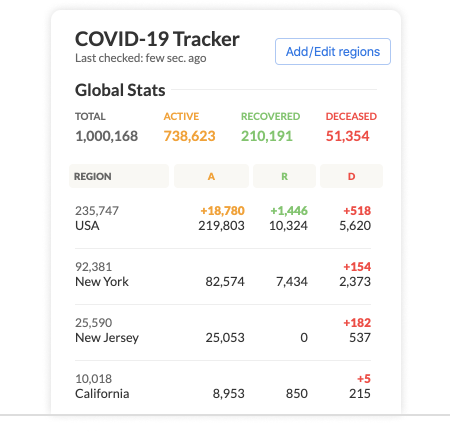
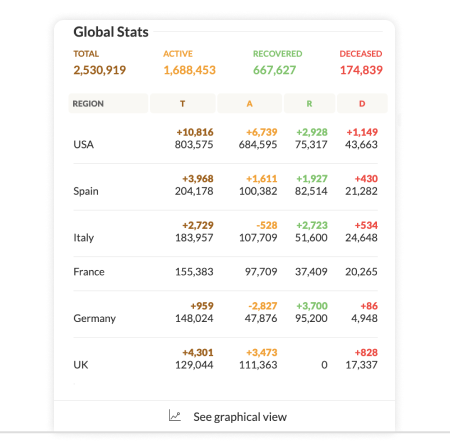
fix(HomePage): Add graphical info, add download sticky headrs

diff --git a/src/page-index/tmpl.html b/src/page-index/tmpl.html
@@ -6,26 +6,28 @@
 </head>
 <body>
 <div >
-  <section class="">
-    <header style="height: 150px;">
-      <div class="row middle-xs" style="height: 100%">
-        <div class="col-xs-12 col-lg-3 row center-xs start-lg left-lg">
-          <div class="logo row middle-xs">
-            <div class="logo-bg"></div>
-            <div class="heading-text">
-              <span>COVID-19</span>
-              <br>Tracker
+  <section class="home">
+    <div class="header">
+      <header>
+        <div class="row middle-xs" style="height: 100%">
+          <div class="col-xs-12 col-lg-3 row center-xs start-lg left-lg">
+            <div class="logo row middle-xs">
+              <div class="logo-bg"></div>
+              <div class="heading-text">
+                <span>COVID-19</span>
+                <br>Tracker
+              </div>
             </div>
           </div>
-        </div>
-        <div class="col-sm-12 col-md-9">
-          <div class="nav-buttons hide-xs show-lg">
-            <button onclick="chromeOpen()">Add To Chrome</button>
-            <button onclick="firefoxOpen()">Add To Firefox</button>
+          <div class="col-sm-12 col-md-9">
+            <div class="nav-buttons hide-xs show-lg">
+              <button onclick="chromeOpen()" class="bold">Add To Chrome</button>
+              <button onclick="firefoxOpen()" class="bold">Add To Firefox</button>
+            </div>
           </div>
-        </div>
-      </div stye>
-    </header>
+        </div stye>
+      </header>
+    </div>
     <div id="hero-image">
       <div class="row middle-xs full-height">
         <div class="col-lg-8 col-xs-12 row center-lg end-xs">
@@ -78,14 +80,33 @@
       </div>
     </div>
   </section>
-  <section class="region-section section">
+  <section class="graphical-stat-screen section">
     <div class="row middle-xs">
-      <div class="col-xs-12 col-lg-6 center-xs start-lg">
+      <div class="col-xs-12 col-lg-5 col-lg-offset-1 center-xs start-lg">
         <div class="section-heading">
-          Add any number of regions
+          Compare stats graphically
         </div>
         <div class="section-sub-heading">
-          See stats for all countries or state-wise data for India & US
+         Check and compare historical stats of various regions in single chart view.
+        </div>
+      </div>
+      <div class="col-xs-12 col-lg-6">
+        <picture>
+          <source media="(min-width: 75em)" srcset="images/covid-graphical-screen@3x.png">
+          <source media="(min-width: 64em)" srcset="images/covid-graphical-screen@2x.png">
+          <img src="images/covid-graphical-screen.png" alt="Stat Screen" style="width:auto;">
+        </picture>
+      </div>
+    </div>
+  </section>
+  <section class="region-section section">
+    <div class="row middle-xs">
+      <div class="col-xs-12 col-lg-6 show-xs hide-lg center-xs">
+        <div class="section-heading">
+          Add multiple regions
+        </div>
+        <div class="section-sub-heading">
+          See stats for various countries and states in a single view.
         </div>
       </div>
       <div class="col-xs-12 col-lg-6 center-xs start-lg">
@@ -95,16 +116,24 @@
           <img src="images/covid-region-screen.png" alt="Region Screen" style="width:auto;">
         </picture>
       </div>
+      <div class="col-xs-12 col-lg-6 center-xs start-lg show-lg hide-xs">
+        <div class="section-heading">
+          Add multiple regions
+        </div>
+        <div class="section-sub-heading">
+          See stats for various countries and states in a single view.
+        </div>
+      </div>
     </div>
   </section>
   <section class="notification-screen section">
     <div class="row middle-xs">
-      <div class="col-xs-12 col-lg-6 show-xs hide-lg center-xs">
+      <div class="col-xs-12 col-lg-6 center-xs start-lg">
         <div class="section-heading">
-          Get notification of increase in global cases
+          Get badge notifications
         </div>
         <div class="section-sub-heading">
-          See a notification as soon as there is a change in global cases
+          Get increase in global count cases notifications in menu bar.
         </div>
       </div>
       <div class="col-xs-12 col-lg-6">
@@ -114,14 +143,14 @@
           <img src="images/covid-notification.png" alt="Stat Screen" style="width:auto;">
         </picture>
       </div>
-      <div class="col-xs-12 col-lg-5 col-lg-offset-1 show-lg hide-xs">
-        <div class="section-heading">
-          Get notification of increase in global cases
-        </div>
-        <div class="section-sub-heading">
-          See a notification as soon as there is a change in global cases
-        </div>
-      </div>
+<!--      <div class="col-xs-12 col-lg-5 col-lg-offset-1 show-lg hide-xs">-->
+<!--        <div class="section-heading">-->
+<!--          Get notification of increase in global cases-->
+<!--        </div>-->
+<!--        <div class="section-sub-heading">-->
+<!--          See a notification as soon as there is a change in global cases-->
+<!--        </div>-->
+<!--      </div>-->
     </div>
   </section>
   <section class="safety-banner section">
@@ -152,6 +181,18 @@
       </div>
     </div>
   </footer>
+  <section class="hide-xs hide-md hide-lg fixed-download-footer" id="download-footer">
+    <div class="download-cta">
+      <button class="download row middle-xs" onclick="chromeOpen()">
+        <img src="images/chrome-icon.png" alt="chrome icon" width="32">
+        <span>Add To Chrome</span>
+      </button>
+      <button class="download row middle-xs" style="margin-left: 15px;" onclick="firefoxOpen()">
+        <img src="images/firefox-icon.png" alt="firefox icon" width="32">
+        <span>Add To Firefox</span>
+      </button>
+    </div>
+  </section>
 </div>
 </body>
 </html>

diff --git a/src/page-index/small-page.css b/src/page-index/small-page.css
@@ -61,6 +61,40 @@
     width: 60px;
     margin-right: 10px;
   }
+
+  .fixed-download-footer {
+    position: fixed;
+    bottom: 0;
+    left: 0;
+    right: 0;
+    background: #5086EE;
+    z-index: 2;
+    box-shadow: 0 0 10px 5px rgba(36, 109, 203, 0.30);
+  }
+
+  .fixed-download-footer .download-cta {
+    display: flex;
+    align-items: center;
+    justify-content: center;
+    height: 100%;
+    padding: 10px 0;
+  }
+
+  .fixed-download-footer .download {
+    margin: 0;
+    box-shadow: 0px 4px 10px rgba(0, 0, 0, 0.25);
+    padding: 0.625rem;
+    border-radius: 100px;
+    color: #1974E8;
+    font-size: 1rem;
+    border: none;
+    outline: none;
+  }
+
+  .fixed-download-footer .download img {
+    width: 2rem;
+    margin-right: 5px;
+  }
 }
 
 @media only screen and (min-width: 64em) {
@@ -106,11 +140,6 @@
     display: block;
   }
 
-  .logo {
-    font-size: 1.5rem;
-    font-weight: 700;
-  }
-
   .container {
     padding: 60px;
   }
@@ -123,9 +152,41 @@
     width: 90%;
     margin: 20px 0;
   }
+
+  .logo {
+    font-size: 1.5rem;
+    font-weight: 700;
+  }
+
+  div.header {
+    padding: 20px 0;
+    /*transition: all 0.3s ease-in;*/
+  }
+
   header .logo-bg {
     height: 80px;
     width: 80px;
     margin-right: 10px;
+  }
+
+  div.header.small {
+    padding: 10px 0;
+    position: fixed;
+    background: white;
+    top: 0;
+    left: 0;
+    right: 0;
+    box-shadow: 0 0 10px 10px rgba(0, 0, 0, 0.4);
+    animation: fadeIn ease 0.4s;
+  }
+
+  div.header.small .logo-bg {
+    height: 30px;
+    width: 30px;
+  }
+
+  div.header.small .logo {
+    font-size: 1rem;
+    font-weight: 600;
   }
 }

diff --git a/src/page-index/main.js b/src/page-index/main.js
@@ -1,11 +1,22 @@
 require('./page.css')
 require('./small-page.css')
-document.addEventListener('DOMContentLoaded', () => {
-  console.log('DOMContentLoaded', 'page-index')
-})
 window.chromeOpen = () => {
   window.location.href = 'https://chrome.google.com/webstore/detail/covid-19-tracker/ehpkefnpbbmohfkanokkjklihkjbamjm'
 }
 window.firefoxOpen = () => {
   window.location.href = 'https://addons.mozilla.org/en-US/firefox/addon/covid-19-tracker'
 }
+let isFixed = false
+window.addEventListener('scroll', () => {
+  if (!isFixed && document.documentElement.scrollTop > document.documentElement.clientHeight/2) {
+    isFixed = true;
+    document.querySelector('.header').classList.add('small')
+    document.querySelector('#download-footer').classList.add('show-xs')
+    document.querySelector('#download-footer').classList.remove('hide-xs')
+  } else if (isFixed && document.documentElement.scrollTop <= document.documentElement.clientHeight/2) {
+    isFixed = false;
+    document.querySelector('.header').classList.remove('small')
+    document.querySelector('#download-footer').classList.remove('show-xs')
+    document.querySelector('#download-footer').classList.add('hide-xs')
+  }
+})

diff --git a/src/page-index/page.css b/src/page-index/page.css
@@ -40,6 +40,8 @@ button:hover {
   padding: 12px 20px;
   background: none;
   margin-left: 10px;
+  font-size: 0.9rem;
+  text-transform: uppercase;
 }
 
 .full-height {
@@ -221,8 +223,62 @@ footer {
 .footer-links a:hover {
   text-decoration: underline;
 }
+
 .footer-links .separator {
   margin: 0 4px;
   color: #666666;
   font-size: 0.8em;
+}
+
+.fade-in {
+  animation: fadeIn ease 20s;
+  -webkit-animation: fadeIn ease 20s;
+  -moz-animation: fadeIn ease 20s;
+  -o-animation: fadeIn ease 20s;
+  -ms-animation: fadeIn ease 20s;
+}
+
+@keyframes fadeIn {
+  0% {
+    opacity: 0;
+  }
+  100% {
+    opacity: 1;
+  }
+}
+
+@-moz-keyframes fadeIn {
+  0% {
+    opacity: 0;
+  }
+  100% {
+    opacity: 1;
+  }
+}
+
+@-webkit-keyframes fadeIn {
+  0% {
+    opacity: 0;
+  }
+  100% {
+    opacity: 1;
+  }
+}
+
+@-o-keyframes fadeIn {
+  0% {
+    opacity: 0;
+  }
+  100% {
+    opacity: 1;
+  }
+}
+
+@-ms-keyframes fadeIn {
+  0% {
+    opacity: 0;
+  }
+  100% {
+    opacity: 1;
+  }
 }
